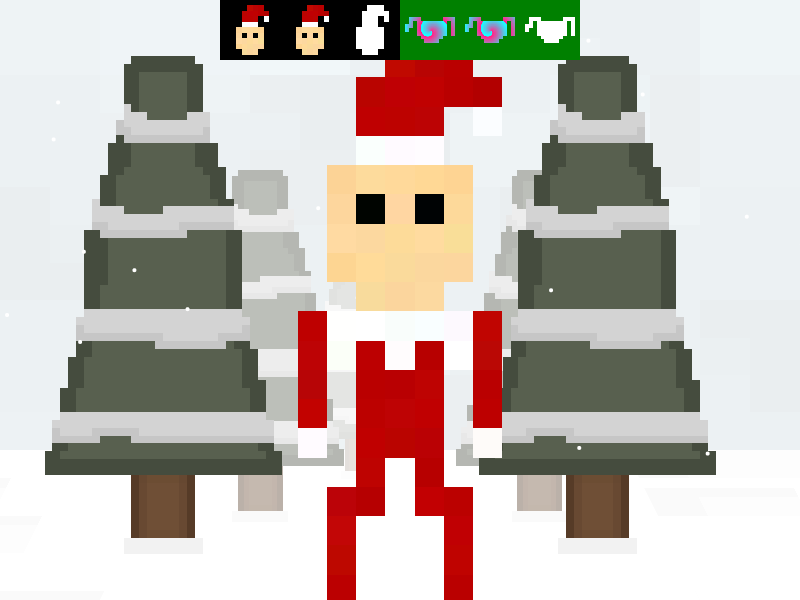
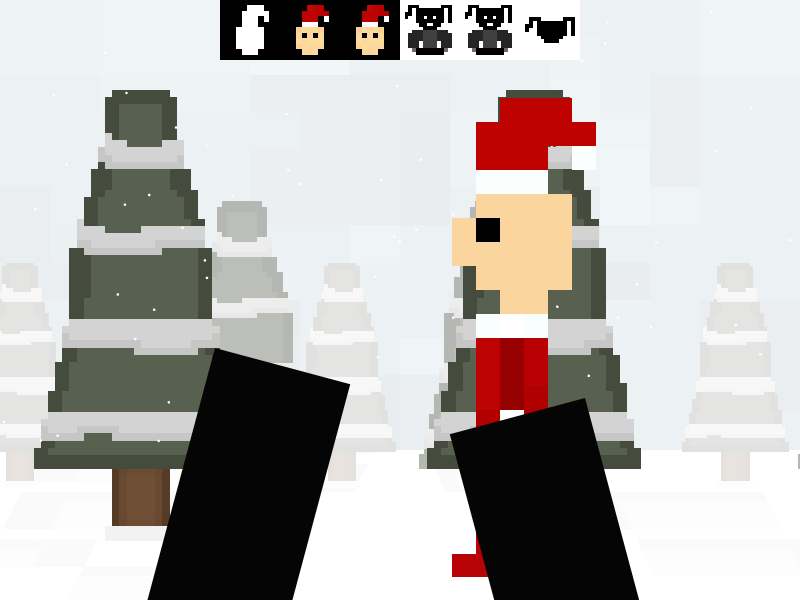
Dug self deeper into the never ending hole

diff --git a/elven-uvtc/renderers/something-different.js b/elven-uvtc/renderers/something-different.js
@@ -70,17 +70,116 @@ function SomethingDifferentRenderer() {
 
     let fogColor = defaultFogColor;
 
-    let opponentSprite = null;
+    let noPunchEffect = true;
+
+    this.opponentSprite = null;
     this.opponent = {
         y: 0,
         x: 0,
+        xTarget: null,
+        yTarget: null,
+        resolver: null,
+        setWalking: isWalking => this.opponentSprite.sprite.setWalking(isWalking),
+        updateDirection: direction => this.opponentSprite.sprite.updateDirection(direction),
+        move: async function(x,y) {
+            if(x) {
+                if(x > 0) {
+                    await this.moveBy("left",x);
+                } else if(x < 0) {
+                    await this.moveBy("right",-x);
+                }
+            } else if(y) {
+                if(y > 0) {
+                    await this.moveBy("down",y);
+                } else if(y < 0) {
+                    await this.moveBy("up",-y);
+                }
+            }
+        },
+        moveBy: function(direction,amount) {
+            return new Promise(resolve => {
+                this.xTarget = null;
+                this.yTarget = null;
+                switch(direction) {
+                    default:
+                        return;
+                    case "up":
+                        this.updateDirection("down");
+                        this.setWalking(true);
+                        this.yTarget = this.y - amount;
+                        break;
+                    case "down":
+                        this.updateDirection("down");
+                        this.setWalking(true);
+                        this.yTarget = this.y + amount;
+                        break;
+                    case "left":
+                        this.updateDirection("left");
+                        this.setWalking(true);
+                        this.xTarget = this.x + amount;
+                        break;
+                    case "right":
+                        this.updateDirection("right");
+                        this.setWalking(true);
+                        this.xTarget = this.x - amount;
+                        break;
+                }
+                this.resolver = resolve;
+            });
+        },
+        movementLogic: function(delta) {
+            if(this.xTarget !== null) {
+                const xVelocity = delta * 0.01;
+                if(this.xTarget < this.x) {
+                    this.x -= xVelocity;
+                    if(this.x < this.xTarget) {
+                        this.x = this.xTarget;
+                        this.xTarget = null;
+                        this.updateDirection("down");
+                        this.setWalking(false);
+                        this.resolver();
+                    }
+                } else if(this.xTarget > this.x) {
+                    this.x += xVelocity;
+                    if(this.x > this.xTarget) {
+                        this.x = this.xTarget;
+                        this.xTarget = null;
+                        this.updateDirection("down");
+                        this.setWalking(false);
+                        this.resolver();
+                    }
+                }
+            } else if(this.yTarget !== null) {
+                const yVelocity = delta * 0.01;
+                if(this.yTarget < this.y) {
+                    this.y -= yVelocity;
+                    if(this.y < this.yTarget) {
+                        this.y = this.yTarget;
+                        this.yTarget = null;
+                        this.updateDirection("down");
+                        this.setWalking(false);
+                        this.resolver();
+                    }
+                } else if(this.yTarget > this.y) {
+                    this.y += yVelocity;
+                    if(this.y > this.yTarget) {
+                        this.y = this.yTarget;
+                        this.yTarget = null;
+                        this.updateDirection("down");
+                        this.setWalking(false);
+                        this.resolver();
+                    }
+                }         
+            }
+        },
         render: timestamp => {
             let adjustedScale = spriteScale;
             let extraScale = 0;
-            if(this.hands.punching) {
-                extraScale = 5;
+            if(this.hands.punching && !noPunchEffect) {
+                extraScale = 1;
             }
-            opponentSprite.render(timestamp,adjustedScale,extraScale);
+
+            this.opponentSprite.render(timestamp,adjustedScale,extraScale);
             //todo render this.opponentHeart
         }
     }
@@ -196,7 +295,7 @@ function SomethingDifferentRenderer() {
             getTree(0.75)
         );
         this.backgroundEffects.addLayer(new CrazyFlyingShitEffect(1,2.5,0.001,80,200,"white"));
-        opponentSprite = new SpriteForeground("wimpy-red-elf",true,null,null,opponentSpriteOffset);
+        this.opponentSprite = new SpriteForeground("wimpy-red-elf",true,null,null,opponentSpriteOffset);
         tileset = imageDictionary["battle/test-tileset"];
         fogColor = defaultFogColor;
         headconMap = [
@@ -208,6 +307,19 @@ function SomethingDifferentRenderer() {
             {icon:1,lost:false},
             {icon:1,lost:true}
         ];
+        (async function(){
+            await delay(100);
+            while(true) {
+                await this.opponent.move(0.5);
+                await delay(500);
+                await this.opponent.move(-0.5);
+                await delay(500);
+                await this.opponent.move(-0.5);
+                await delay(500);
+                await this.opponent.move(0.5);
+                await delay(500);
+            }
+        }).call(this);
     }
     loadBattleSpecifics();
 
@@ -253,6 +365,7 @@ function SomethingDifferentRenderer() {
         context.fillStyle = fogColor;
         context.fillRect(-xPixelOffset,-yPixelOffset,fullWidth+xPixelOffset*2,fullHeight+yPixelOffset*2);
     }
+    let lastOpponentCenterX = 0;
     const renderForeground = (timestamp,xNormal,depthNormal,xPixelOffset,yPixelOffset) => {
         depthNormal = foregroundYRetargetStart + (foregroundYRetargetEnd - foregroundYRetargetStart) * depthNormal;
 
@@ -282,6 +395,8 @@ function SomethingDifferentRenderer() {
         const fourthDepthX = (fullWidth   - fourthDepthScale  * fullWidth)  /  2 + xOffset * fourthDepthScale - opponentXOffset + xPixelOffset;
         const fourthDepthY = (fullHeight - fourthDepthHeight) / 2 - Math.min(depthNormal - frontLayerDepthAdjustment,0) * frontLayerSpecialModifier + yPixelOffset;
 
+        lastOpponentCenterX = fourthDepthX + (fullWidth * fourthDepthScale / 2);
+        
         let i;
         context.save();
         context.setTransform(firstDepthScale,0,0,firstDepthScale,firstDepthX,firstDepthY);
@@ -374,7 +489,41 @@ function SomethingDifferentRenderer() {
     }
 
     this.processClick = () => {
-        this.hands.punch(playSound.bind(this,"damage",0.15));
+        const yDistance = Math.max(0,1 - y - this.opponent.y);
+        const xDistance = Math.abs(halfWidth - lastOpponentCenterX);
+        const minimumYDistance = 0.4;
+        const minimumXDistance = 80;
+        if(yDistance <= minimumYDistance && xDistance <= minimumXDistance) {
+            this.hands.punch(()=>{
+                playSound("damage",0.15);
+                this.foregroundEffects.addLayer({
+                    startTime: performance.now(),
+                    size: 20 + Math.random() * 20,
+                    angleOffset: PI2 * Math.random(),
+                    rotationPolarity: Math.random() > 0.5 ? 1 : -1,
+                    xOffset: (Math.random() * 50) - 25,
+                    yOffset: (Math.random() * 20) - 10,
+                    render: function(timestamp) {
+                        const delta = Math.min(100,timestamp-this.startTime) / 100;
+                        const size = this.size * delta;
+                        const halfSize = size / 2;
+                        context.save();
+                        context.translate(halfWidth+this.xOffset,halfHeight+this.yOffset);
+                        context.rotate(PI2*delta*this.rotationPolarity+this.angleOffset);
+                        context.fillStyle = "rgba(255,0,0,0.82)";
+                        context.fillRect(-halfSize,-halfSize,size,size);
+                        context.restore();
+                        if(delta === 1) {
+                            this.terminate();
+                        }
+                    }
+                })
+            });
+            noPunchEffect = false;
+        } else if(!this.hands.punching) {
+            this.hands.punch();
+            noPunchEffect = true;
+        }
     }
 
     const processMovement = (delta,timestamp) => {
@@ -494,6 +643,11 @@ function SomethingDifferentRenderer() {
             timestamp
         );
     }
+    let impactStart = null;
+    this.playerImpact = () => {
+        impactStart = performance.now();
+        playSound("damage");
+    }
     this.render = timestamp => {
         let delta = timestamp - lastFrame;
         if(delta > maxFrameDifference) {
@@ -503,21 +657,53 @@ function SomethingDifferentRenderer() {
         lastFrame = timestamp;
         processMovement(delta,timestamp);
 
-        renderSky();
-        renderGround(x,y);
-
         let foregroundXOffset = 0;
         let foregroundYOffset = 0;
 
-        if(this.hands.punching) {//todo
-            foregroundXOffset = Math.round(Math.random());
-            foregroundYOffset = Math.round(Math.random());
+        let renderY = y;
+        let impactDelta = 0;
+        if(impactStart !== null) {
+            const impactTime = 80;
+            impactDelta = (timestamp - impactStart) / impactTime;
+            if(impactDelta > 1) {
+                impactDelta = 1;
+                impactStart = 0;
+            }
+            impactDelta
+            if(impactDelta > 0.5) {
+                impactDelta = 1 - impactDelta;
+            } else {
+                impactDelta /= 2;
+            }
+            impactDelta = -impactDelta;
+            renderY += impactDelta * 0.4;
+
+            const offsetAmount = 15;
+            foregroundYOffset += Math.random() > 0.5 ? offsetAmount * impactDelta : offsetAmount * -impactDelta;
+        }
+
+        renderSky();
+        renderGround(x,renderY);
+
+        if(this.hands.punching && !noPunchEffect) {//todo
+            foregroundXOffset += Math.round(Math.random()*2);
+            foregroundYOffset += Math.round(Math.random()*2);
         } //else todo
 
-        renderForeground(timestamp,x,y,foregroundXOffset,foregroundYOffset);
+        this.opponent.movementLogic(delta);
+
+        renderForeground(timestamp,x,renderY,foregroundXOffset,foregroundYOffset,delta);
+
+
+        this.hands.render(timestamp);
+
+        if(impactDelta) {
+            context.fillStyle = `rgba(255,0,0,${Math.abs(impactDelta)/2})`;
+            context.fillRect(0,0,fullWidth,fullHeight);
+        }
 
         renderHeadcons();
-        this.hands.render(timestamp);
+
         //this.playerHeart.render(timestamp); TODO
         if(this.globalEffects) {
             this.globalEffects.render(timestamp);

diff --git a/elven-uvtc/renderers/components/world/sprite.js b/elven-uvtc/renderers/components/world/sprite.js
@@ -59,7 +59,7 @@ function SpriteRenderer(startDirection,spriteName,customColumnWidth,customColumn
     let walking = false;
     let currentColumn = 0;
 
-    const animationFrameTime = 1000 / 12;
+    this.animationFrameTime = 1000 / 12;
 
     this.direction = null;
 
@@ -422,7 +422,7 @@ function SpriteRenderer(startDirection,spriteName,customColumnWidth,customColumn
             const destinationY = (this.yOffset * height + y + (this.y - startY) * height) + renderYOffset;
 
             const animationRow = specialRow !== null ? specialRow : !this.walkingOverride && walking ? 
-                Math.floor(recentTimestamp / animationFrameTime) % rowCount * rowHeight
+                Math.floor(recentTimestamp / this.animationFrameTime) % rowCount * rowHeight
             : 0;
 
             context.drawImage(
@@ -448,7 +448,7 @@ function SpriteRenderer(startDirection,spriteName,customColumnWidth,customColumn
                 );
             }
             const animationRow = specialRow !== null ? specialRow : !this.walkingOverride && walking ? 
-                Math.floor(recentTimestamp / animationFrameTime) % rowCount * rowHeight
+                Math.floor(recentTimestamp / this.animationFrameTime) % rowCount * rowHeight
             : 0;
             context.drawImage(
                 sprite,currentColumn,animationRow,columnWidth,rowHeight,destinationX,destinationY,width,height

diff --git a/elven-uvtc/renderers/components/battle/sprite-foreground.js b/elven-uvtc/renderers/components/battle/sprite-foreground.js
@@ -3,24 +3,24 @@ import { SpriteRenderer, ElfRenderer } from "../world/sprite.js";
 const ELVES_ARE_NOT_FAT = "Cannot create an elf sprite with custom width or height dimensions";
 
 function SpriteForeground(whomstve,isElf,customWidth,customHeight,yOffset) {
-    let sprite;
     if(isElf) {
         if(isElf && (customWidth || customHeight)) {
             throw Error(ELVES_ARE_NOT_FAT);
         }
-        sprite = new ElfRenderer("down",whomstve);
+        this.sprite = new ElfRenderer("down",whomstve);
     } else {
-        sprite = new SpriteRenderer("down",whomstve,customWidth,customHeight);
+        this.sprite = new SpriteRenderer("down",whomstve,customWidth,customHeight);
     }
 
-    sprite.x = 0;
-    sprite.y = 0;
+    this.sprite.x = 0;
+    this.sprite.y = 0;
+    this.sprite.animationFrameTime = 200;
 
     this.render = (timestamp,size,extraScale=0) => {
         size = Math.ceil(size * 2 / 16) * 16;
         size += extraScale;
         const halfSize = size/2;
-        sprite.render(timestamp,halfWidth-halfSize,halfHeight-halfSize+yOffset*size,size,size);
+        this.sprite.render(timestamp,halfWidth-halfSize,halfHeight-halfSize+yOffset*size,size,size);
     }
 }
 export default SpriteForeground;

diff --git a/elven-uvtc/runtime/scripts.js b/elven-uvtc/runtime/scripts.js
@@ -1,5 +1,5 @@
 function delay(time) {
-    if(rendererState.setTimeout) {
+    if(rendererState && rendererState.setTimeout) {
         return new Promise(resolve=>{
             rendererState.setTimeout(resolve,time);
         });
@@ -10,7 +10,7 @@ function delay(time) {
     }
 }
 function inlineSetTimeout(callback,time) {
-    if(rendererState.setTimeout) {
+    if(rendererState && rendererState.setTimeout) {
         rendererState.setTimeout(callback,time);
     } else {
         setTimeout(callback,time);

diff --git a/elven-uvtc/renderers/components/multi-layer.js b/elven-uvtc/renderers/components/multi-layer.js
@@ -20,7 +20,8 @@ function MultiLayer() {
     }
     this.render = timestamp => {
         for(let i = 0;i<layerSize;i++) {
-            layers[i].render(timestamp);
+            const layer = layers[i];
+            layer.render.call(layer,timestamp);
         }
     }
 }
